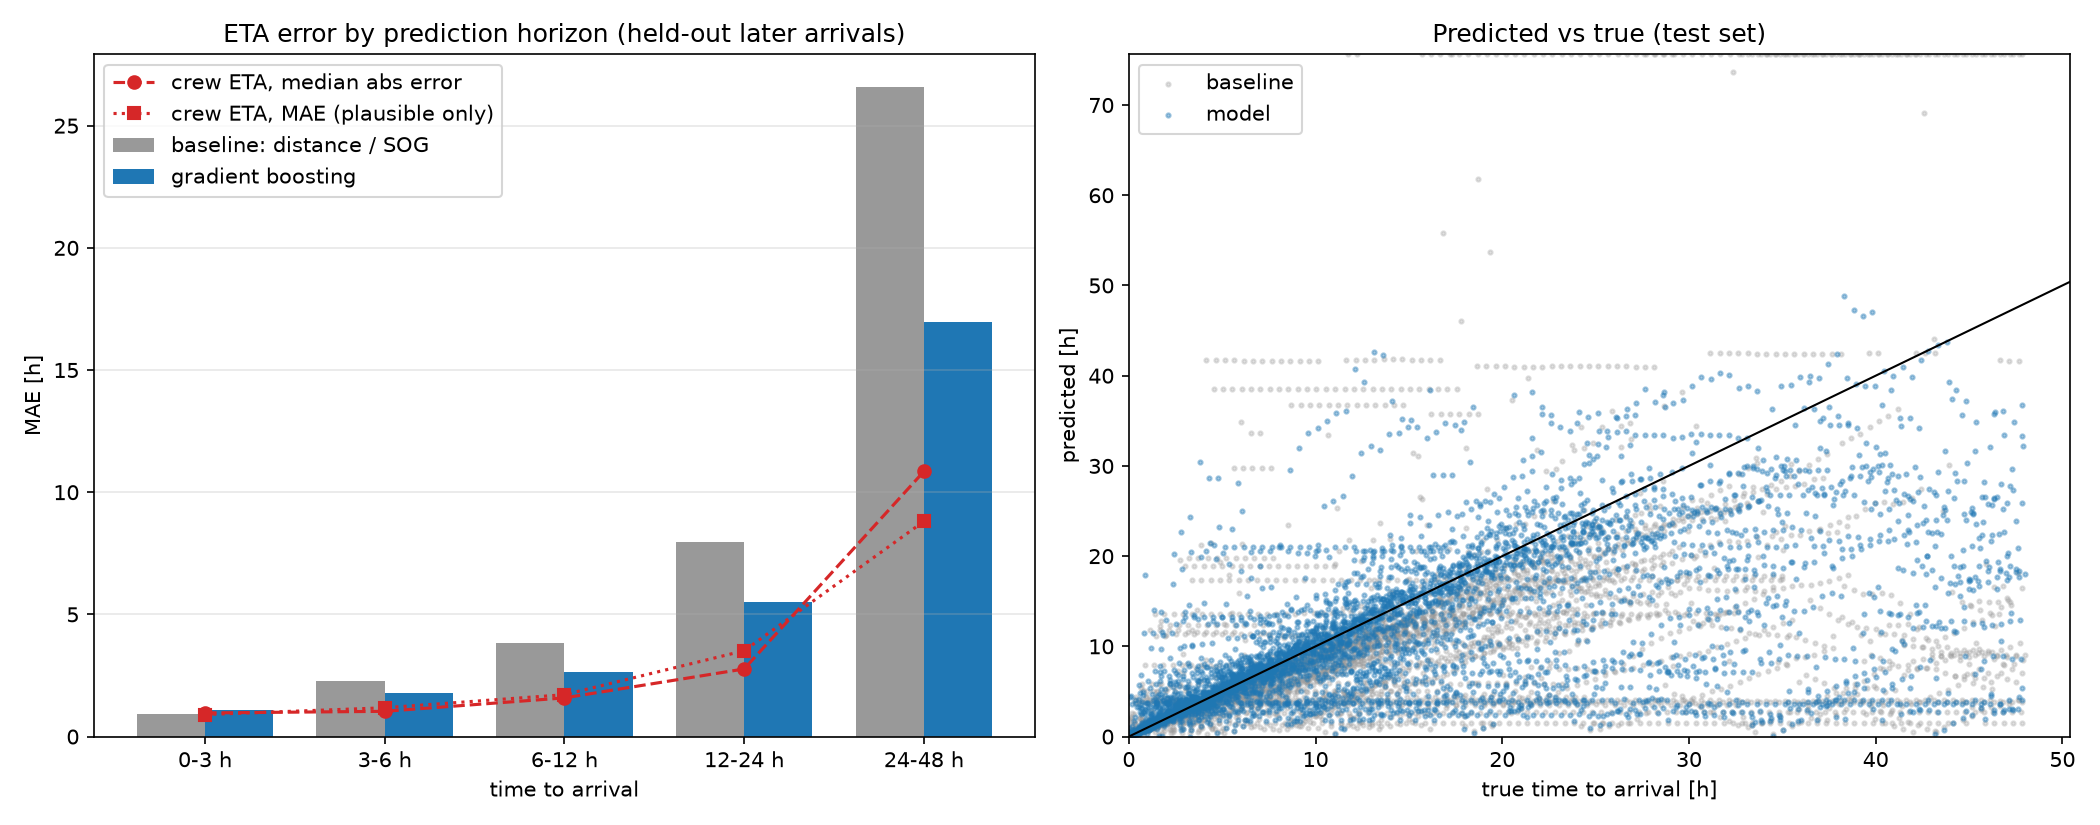
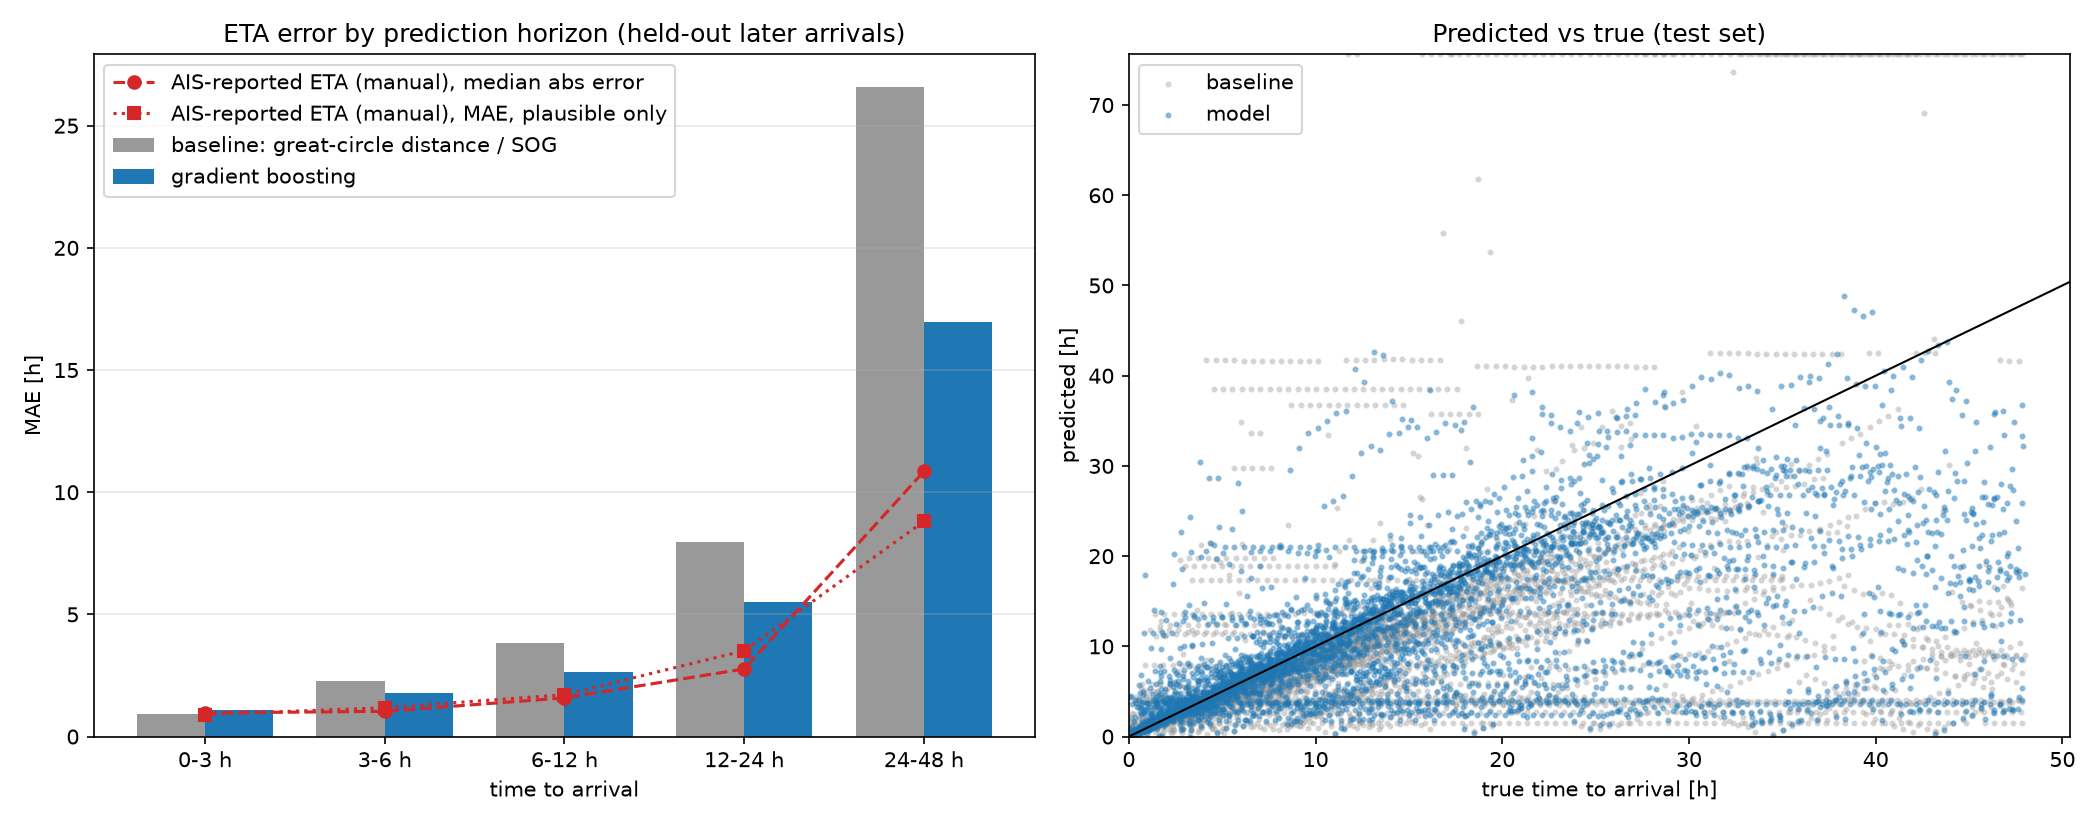
Docs: distinguish manual AIS-reported ETA from the ECDIS navigational ETA
The AIS msg-5 ETA is entered manually by the officer of the watch and
reflects the commercial voyage plan; the continuously computed ECDIS ETA
(route distance-to-go / SOG) is not transmitted by AIS. Results, limitations,
module docstring and figure labels now say so, and note that the baseline is
the great-circle analogue of the ECDIS ETA. No numbers changed.

Changed region(s): [[0.0619, 0.0909, 0.3095, 0.1818]]

diff --git a/src/maritime/ais/eta.py b/src/maritime/ais/eta.py
@@ -10,7 +10,14 @@
      model     gradient boosting on distance, speeds, heading-to-port, position, port, ship;
                trained on log(1 + hours) so a 30-min miss counts as much at 2 h as a 3-h
                miss at 20 h (chosen on a validation split inside the training period)
-     crew      the ETA typed into AIS by the crew, when its destination matches the port
+     crew      the AIS-reported ETA (msg 5 voyage data), when its destination matches the port.
+               This is NOT the ECDIS/GNSS "ETA to waypoint", which the bridge computes
+               continuously from route distance-to-go / SOG and which AIS does not carry. The
+               AIS field is entered manually by the OOW and updated "as necessary", so it
+               reflects the commercial voyage plan (pilot, berth window) and can go stale.
+               Code names use "crew_" for brevity.
+     The baseline is effectively the bridge's dead-reckoning ETA, but with great-circle
+     instead of route distance, since the passage plan is unknown.
 4. Evaluation on a TIME split: train on arrivals before a cutoff, test on later arrivals, so
    no voyage contributes to both sides and the model is scored on the "future".
 

diff --git a/src/maritime/plots.py b/src/maritime/plots.py
@@ -234,10 +234,13 @@ def eta_evaluation(ev: pl.DataFrame, test: pl.DataFrame, out_png: Path) -> Path:
     x = np.arange(bins.height)
     fig, ax = plt.subplots(1, 2, figsize=(14, 5.5))
     w = 0.38
-    ax[0].bar(x - w / 2, bins["mae_baseline_h"], w, color="#999", label="baseline: distance / SOG")
+    ax[0].bar(x - w / 2, bins["mae_baseline_h"], w, color="#999",
+              label="baseline: great-circle distance / SOG")
     ax[0].bar(x + w / 2, bins["mae_model_h"], w, color="tab:blue", label="gradient boosting")
-    for col, style, label in (("crew_median_ae_crew_h", "o--", "crew ETA, median abs error"),
-                              ("plausible_mae_crew_h", "s:", "crew ETA, MAE (plausible only)")):
+    for col, style, label in (("crew_median_ae_crew_h", "o--",
+                               "AIS-reported ETA (manual), median abs error"),
+                              ("plausible_mae_crew_h", "s:",
+                               "AIS-reported ETA (manual), MAE, plausible only")):
         crew = bins[col].to_numpy()
         ok = ~np.isnan(crew)
         ax[0].plot(x[ok], crew[ok], style, color="tab:red", label=label)

diff --git a/RESULTS.md b/RESULTS.md
@@ -168,13 +168,22 @@ choices). Output: `outputs/tables/a5_summary.json`, `a5_eta_mae_by_horizon.csv`,
 
 - **Model vs baseline: −33 % MAE overall**; better at every horizon except the last 3 h,
   where dead reckoning is already near-exact.
-- **Crew-reported ETA** (destination matched to the arrival port by UN/LOCODE or name,
-  3,084 test samples): **21.9 % were already in the past** when read (not updated).
-  - All matched: crew MAE **27.15 h** (median 1.85 h) vs model 5.78 h, baseline 6.87 h.
-  - Plausible only (0–14 days ahead, 2,395 samples): crew MAE **3.20 h** (median 1.03 h) vs
-    model 4.28 h, baseline 5.53 h.
-  - → A maintained crew ETA is the best single predictor; a stale one is the worst. A
-    production system should combine them (crew ETA when plausible, model otherwise).
+- **What is being compared.** Two different ETAs exist on board. The bridge ECDIS/GNSS
+  computes a navigational ETA continuously (route distance-to-go / SOG); AIS does **not**
+  transmit it. The AIS **ETA field** (msg 5 voyage data) is entered **manually** by the
+  officer of the watch with the destination and updated "as necessary" — in practice the
+  commercial ETA given to agent and port. Our baseline is the dead-reckoning analogue of the
+  ECDIS ETA (with great-circle instead of route distance); "crew ETA" below is the manual
+  AIS field.
+- **AIS-reported (manual) ETA** (destination matched to the arrival port by UN/LOCODE or
+  name, 3,084 test samples): **21.9 % were already in the past** when read (not updated).
+  - All matched: AIS ETA MAE **27.15 h** (median 1.85 h) vs model 5.78 h, baseline 6.87 h.
+  - Plausible only (0–14 days ahead, 2,395 samples): AIS ETA MAE **3.20 h** (median
+    1.03 h) vs model 4.28 h, baseline 5.53 h.
+  - → A maintained AIS ETA is the best single predictor: it carries information invisible in
+    kinematics (pilot booking, berth window, planned waiting). Because it is manual, a stale
+    one is the worst. A production system should combine them (AIS ETA when plausible,
+    model otherwise).
 - Permutation importance (log-hours MAE increase): `baseline_h` 0.37, `off_course_deg`
   0.10, `sog_kn` 0.07, `dist_nm` 0.07; vessel type ≈ 0. The model mainly corrects the
   physics baseline for heading and speed changes near port.

diff --git a/LIMITATIONS.md b/LIMITATIONS.md
@@ -80,10 +80,15 @@ Known caveats, added as each phase is built.
 - Great-circle distance ignores land: routes around Jutland or through the Belts are longer.
   The model partly learns this from position features; a proper route network (e.g. a
   sea-lane graph) would do better.
-- Crew ETA: matched to the arrival port by UN/LOCODE or port-name substring; exonyms
-  ("GOTHENBURG" vs WPI "Goteborg") are missed. AIS ETA has no year; we re-attach the year
-  closest to the report time. 22 % of matched crew ETAs were already in the past (not
-  updated), so crew-ETA results are reported both raw and on a "plausible" subset.
+- AIS-reported ETA ("crew ETA" in code): this is the manually entered msg-5 field, not the
+  ECDIS navigational ETA, which AIS does not carry. Some integrated bridges can feed it
+  automatically; we cannot tell which vessels do. It is matched to the arrival port by
+  UN/LOCODE or port-name substring; exonyms ("GOTHENBURG" vs WPI "Goteborg") are missed.
+  The AIS ETA has no year; we re-attach the year closest to the report time. 22 % of matched
+  values were already in the past (not updated), so results are reported both raw and on a
+  "plausible" subset.
+- The baseline uses great-circle distance; a real ECDIS ETA uses the passage-plan route and
+  would be more accurate at long horizons than our baseline.
 - The model target transform (log hours) was chosen on a validation split inside the
   training period; the test set was not used for any choice. On test, the baseline remains
   slightly better in the last 3 h (0.93 vs 1.10 h MAE).
